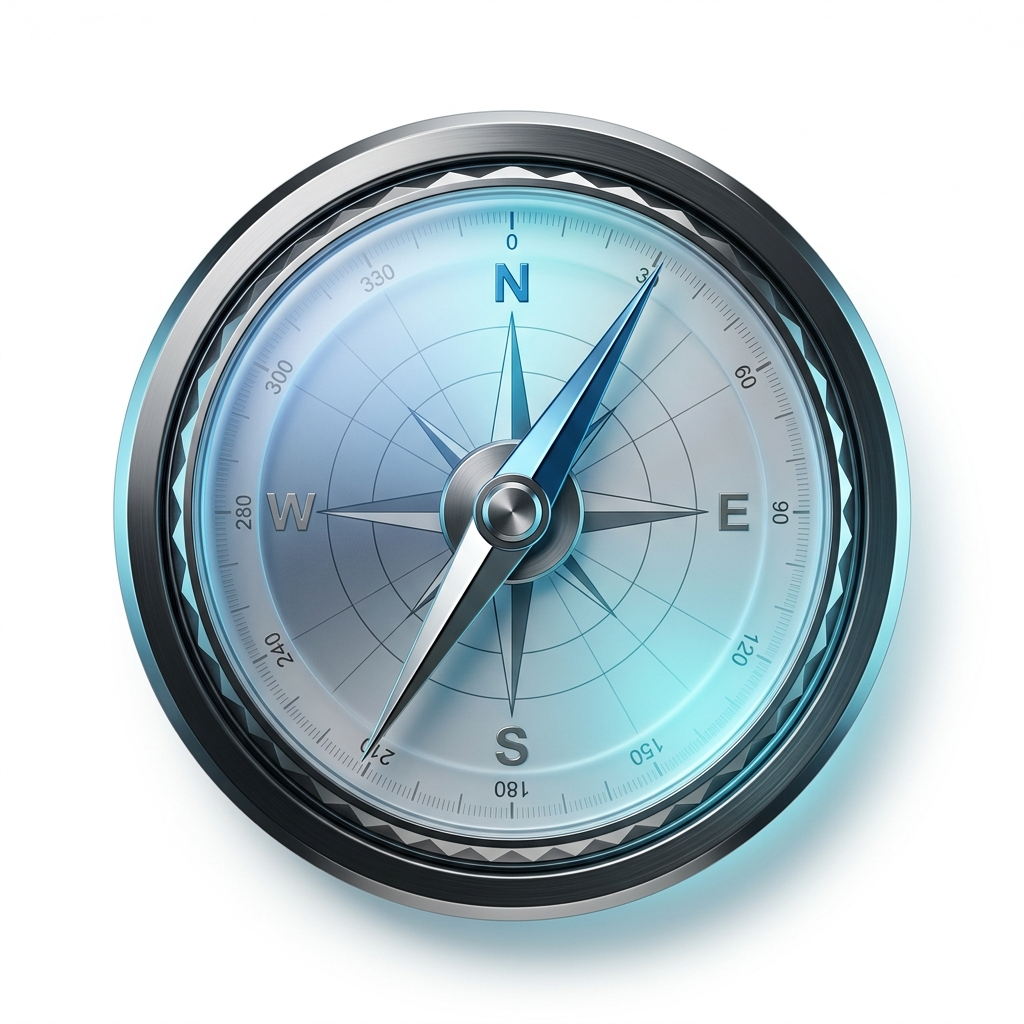
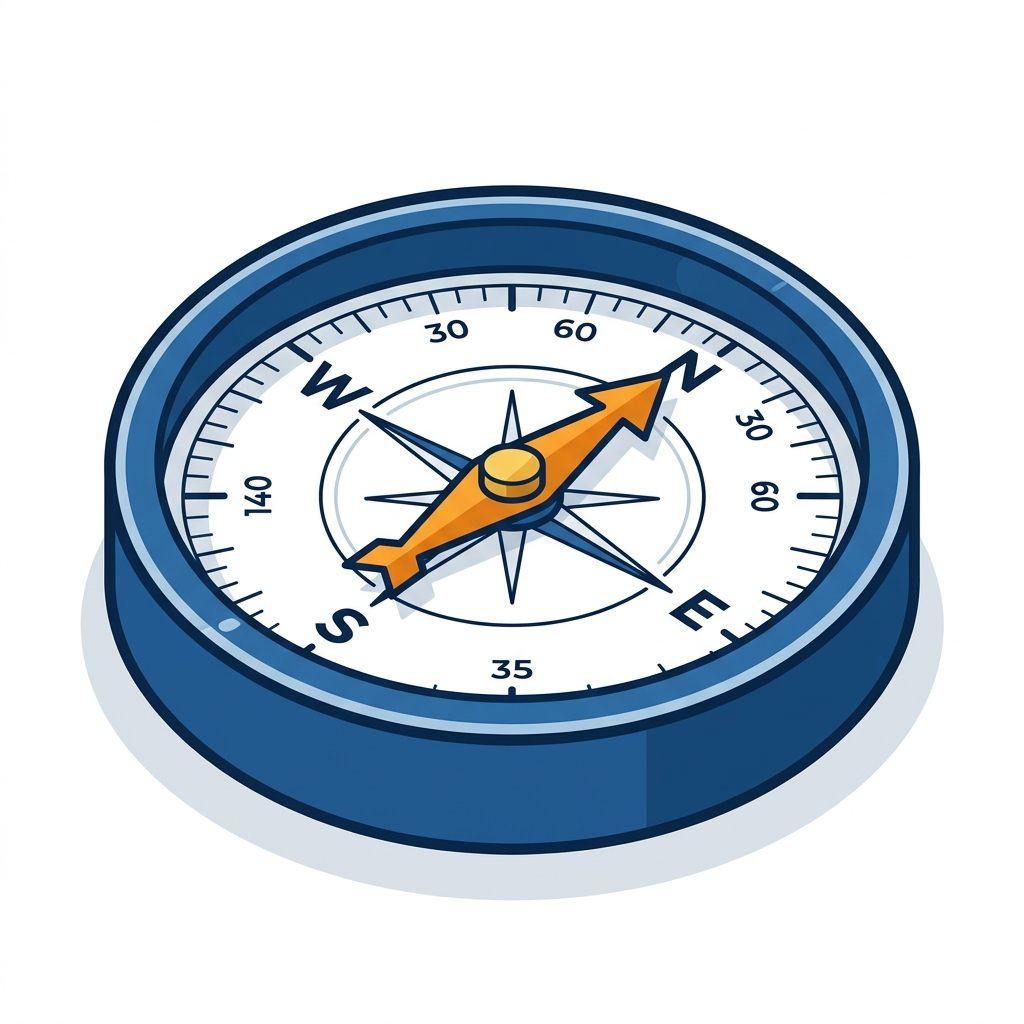
style: boussole isométrique aux couleurs de YouthLinkIA et rapprochement des cartes satellites

diff --git a/app/page.tsx b/app/page.tsx
@@ -142,7 +142,7 @@ export default async function Home() {
              <div className="absolute inset-0 pointer-events-none z-30">
                
                {/* Bourse (Top Left) */}
-               <div className="absolute top-[5%] left-[5%] sm:-left-[5%] bg-white px-4 py-3 rounded-2xl shadow-xl border border-gray-100 flex items-center gap-3 animate-float pointer-events-auto transition-transform hover:scale-105 hover:border-[var(--color-primary)] cursor-pointer" style={{ animationDelay: '0s' }}>
+               <div className="absolute top-[12%] left-[10%] sm:left-[2%] bg-white px-4 py-3 rounded-2xl shadow-xl border border-gray-100 flex items-center gap-3 animate-float pointer-events-auto transition-transform hover:scale-105 hover:border-[var(--color-primary)] cursor-pointer" style={{ animationDelay: '0s' }}>
                  <div className="w-10 h-10 rounded-full bg-blue-50 flex items-center justify-center text-[var(--color-primary)]">
                    <GraduationCap className="w-5 h-5" />
                  </div>
@@ -153,7 +153,7 @@ export default async function Home() {
                </div>
 
                {/* Emploi (Top Right) */}
-               <div className="absolute top-[20%] right-[0%] sm:-right-[10%] bg-white px-4 py-3 rounded-2xl shadow-xl border border-gray-100 flex items-center gap-3 animate-float pointer-events-auto transition-transform hover:scale-105 hover:border-[var(--color-cta)] cursor-pointer" style={{ animationDelay: '1s' }}>
+               <div className="absolute top-[25%] right-[5%] sm:-right-[2%] bg-white px-4 py-3 rounded-2xl shadow-xl border border-gray-100 flex items-center gap-3 animate-float pointer-events-auto transition-transform hover:scale-105 hover:border-[var(--color-cta)] cursor-pointer" style={{ animationDelay: '1s' }}>
                  <div className="w-10 h-10 rounded-full bg-orange-50 flex items-center justify-center text-[var(--color-cta)]">
                    <Briefcase className="w-5 h-5" />
                  </div>
@@ -164,7 +164,7 @@ export default async function Home() {
                </div>
 
                {/* Entrepreneuriat (Bottom Left) */}
-               <div className="absolute bottom-[20%] left-[0%] sm:-left-[10%] bg-white px-4 py-3 rounded-2xl shadow-xl border border-gray-100 flex items-center gap-3 animate-float pointer-events-auto transition-transform hover:scale-105 hover:border-green-500 cursor-pointer" style={{ animationDelay: '2s' }}>
+               <div className="absolute bottom-[25%] left-[5%] sm:-left-[2%] bg-white px-4 py-3 rounded-2xl shadow-xl border border-gray-100 flex items-center gap-3 animate-float pointer-events-auto transition-transform hover:scale-105 hover:border-green-500 cursor-pointer" style={{ animationDelay: '2s' }}>
                  <div className="w-10 h-10 rounded-full bg-green-50 flex items-center justify-center text-green-600">
                    <Lightbulb className="w-5 h-5" />
                  </div>
@@ -175,7 +175,7 @@ export default async function Home() {
                </div>
 
                {/* Mentorat (Bottom Right) */}
-               <div className="absolute bottom-[5%] right-[5%] sm:right-[0%] bg-[var(--color-primary)] px-4 py-3 rounded-2xl shadow-xl border border-primary-800 flex items-center gap-3 animate-float pointer-events-auto transition-transform hover:scale-105 cursor-pointer" style={{ animationDelay: '1.5s' }}>
+               <div className="absolute bottom-[12%] right-[10%] sm:right-[5%] bg-[var(--color-primary)] px-4 py-3 rounded-2xl shadow-xl border border-primary-800 flex items-center gap-3 animate-float pointer-events-auto transition-transform hover:scale-105 cursor-pointer" style={{ animationDelay: '1.5s' }}>
                  <div className="w-10 h-10 rounded-full bg-white/20 flex items-center justify-center text-white backdrop-blur-sm">
                    <Users className="w-5 h-5" />
                  </div>
